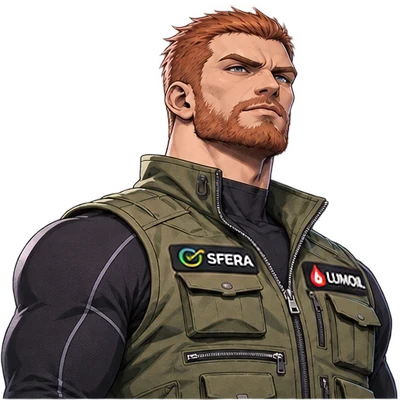
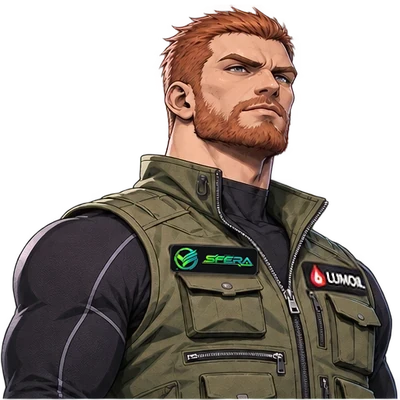
Новая нашивка SFERA у KrushR
Claude-Session: https://claude.ai/code/session_01BdoBrB8cx4HivwSUnJtpct

Changed region(s): [[0.42, 0.6, 0.66, 0.72]]

diff --git a/sw.js b/sw.js
@@ -1,5 +1,5 @@
 // Установка как приложения и офлайн: сначала сеть (чтобы приходили обновления), без сети — сохранённая копия.
-const CACHE = 'spektr-v74';
+const CACHE = 'spektr-v75';
 const FILES = ['./', './index.html', './manifest.webmanifest', './icon-192.png', './icon-512.png', './icon-mask.png', './icon-180.png'];
 self.addEventListener('install', e => { e.waitUntil(caches.open(CACHE).then(c => c.addAll(FILES))); self.skipWaiting(); });
 self.addEventListener('activate', e => { e.waitUntil(caches.keys().then(ks => Promise.all(ks.filter(k => k !== CACHE).map(k => caches.delete(k))))); self.clients.claim(); });
